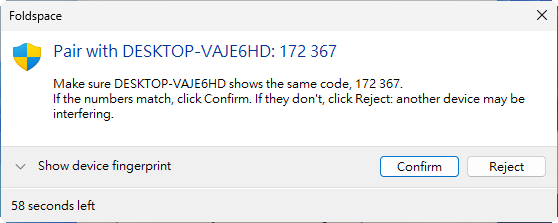
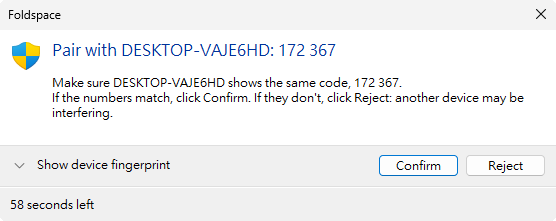
Redo the screenshot section and add Ko-fi support
- Show one screenshot at a time on a Windows 11 desktop backdrop,
  picked from tabs with a short description of each screen.
- Trim the uneven 1px border left by the screen captures.
- Add a Support link next to the GitHub icon and a support card in
  the download section. Both open Ko-fi's donation panel in a dialog
  that only loads Ko-fi when clicked; narrow screens go straight to
  the Ko-fi page.
- Move the language switch to the far right of the top bar.

diff --git a/assets/site.js b/assets/site.js
@@ -14,6 +14,7 @@
     "nav.design": "Design",
     "nav.guide": "Guide",
     "nav.download": "Download",
+    "nav.support": "Support",
     "hero.eyebrow": "File transfer for Windows on your local network",
     "hero.title": "Drop it in the folder.<br>It lands on the other PC.",
     "hero.lead": "Foldspace opens a permanent door between two Windows PCs. Pair them once, then drag a file or folder onto “Foldspace” on your desktop and it shows up, complete, in the other PC's receive folder — nobody has to click anything on the other side.",
@@ -52,11 +53,16 @@
     "screens.kicker": "Screenshots",
     "screens.title": "Just the Windows you know",
     "screens.lead": "Settings, pairing and transfers are built from standard Windows controls, so everything works the way system tools do.",
-    "shot.general": "Settings: connection status at a glance",
-    "shot.discovery": "Choose the PC to pair with",
-    "shot.code": "Compare the 6-digit pairing code",
+    "shot.general": "Settings",
+    "shot.general.d": "See at a glance whether you're connected; the everyday options are here too.",
+    "shot.discovery": "Find the other PC",
+    "shot.discovery.d": "PCs on your network running Foldspace are listed automatically. Just pick one.",
+    "shot.code": "Compare the code",
+    "shot.code.d": "Both PCs show the same 6 digits. Confirm they match and you're paired.",
     "shot.transfer": "Transfer progress",
-    "shot.toast": "Notification when files arrive",
+    "shot.transfer.d": "Shows the speed and time left, and you can cancel at any time.",
+    "shot.toast": "Notification",
+    "shot.toast.d": "When everything has arrived, a Windows notification lets you know.",
 
     "design.kicker": "Design highlights",
     "design.title": "Simple on the outside, careful on the inside",
@@ -121,6 +127,10 @@
     "dl.title": "Download Foldspace",
     "dl.meta": "Windows 10 21H2 or later / Windows 11 · x64 · single exe",
     "dl.all": "All releases and notes →",
+    "support.t": "Support Foldspace",
+    "support.d": "If Foldspace saves you time, you're welcome to buy me a coffee on Ko-fi.",
+    "support.btn": "Support on Ko-fi",
+    "support.open": "Can't see the payment form? Open it on Ko-fi ↗",
     "dl.verify.t": "Verify the download",
     "dl.verify.d": "Every release comes with a .sha256 file. Run this in PowerShell and compare the result with the value in the .sha256 file:",
     "privacy.t": "Privacy",
@@ -211,24 +221,93 @@
     if (cmd) cmd.textContent = `Get-FileHash .\\${release.name} -Algorithm SHA256`;
   }
 
-  // ---------- Screenshots: images/<shot>.<lang>.png; the section stays hidden until one loads ----------
+  // ---------- Screenshots: images/<shot>.<lang>.png, shown one at a time on the stage ----------
+  // The section stays hidden until at least one screenshot loads; tabs whose image is missing are hidden.
+  const shotUrls = {};
+  let currentShot = null;
+
+  function showShot(name, focus) {
+    const tab = document.getElementById(`tab-${name}`);
+    const img = document.querySelector(".sc-img");
+    if (!tab || !img || !shotUrls[name]) return;
+    currentShot = name;
+    $$(".sc-tab").forEach((t) => {
+      const on = t === tab;
+      t.setAttribute("aria-selected", on ? "true" : "false");
+      t.tabIndex = on ? 0 : -1;
+    });
+    const stage = document.getElementById("sc-stage");
+    stage.setAttribute("aria-labelledby", tab.id);
+    stage.dataset.shot = name;
+    img.classList.remove("in");
+    img.src = shotUrls[name];
+    img.alt = tab.querySelector(".sc-t").textContent;
+    // Restart the fade-in on every switch.
+    void img.offsetWidth;
+    img.classList.add("in");
+    if (focus) tab.focus();
+  }
+
   function loadScreenshots() {
     const section = document.getElementById("screens");
     if (!section) return;
-    $$(".shot").forEach((fig) => {
-      const img = fig.querySelector("img");
-      const name = fig.dataset.shot;
-      fig.hidden = true;
-      img.onload = () => { fig.hidden = false; section.hidden = false; };
-      img.onerror = () => {
-        // Fall back to the other language's screenshot before giving up.
-        const other = lang === "en" ? "zh-Hant" : "en";
-        if (!img.dataset.fallback) { img.dataset.fallback = "1"; img.src = `images/${name}.${other}.png`; }
+    const other = lang === "en" ? "zh-Hant" : "en";
+    const wanted = currentShot || $$(".sc-tab")[0]?.dataset.shot;
+    let wantedMissing = false;
+    currentShot = null;
+    $$(".sc-tab").forEach((tab) => {
+      const name = tab.dataset.shot;
+      tab.hidden = true;
+      delete shotUrls[name];
+      const probe = new Image();
+      probe.onload = () => {
+        shotUrls[name] = probe.src;
+        tab.hidden = false;
+        section.hidden = false;
+        // Keep the current tab (refreshed in the new language), or start on the first one.
+        if (name === wanted) showShot(name);
+        else if (wantedMissing && !currentShot) showShot(name);
       };
-      delete img.dataset.fallback;
-      img.alt = fig.querySelector("figcaption")?.textContent || "";
-      img.src = `images/${name}.${lang}.png`;
+      // Fall back to the other language's screenshot before giving up.
+      probe.onerror = () => {
+        if (!probe.dataset.fallback) { probe.dataset.fallback = "1"; probe.src = `images/${name}.${other}.png`; return; }
+        if (name !== wanted) return;
+        wantedMissing = true;
+        const loaded = $$(".sc-tab").find((t) => shotUrls[t.dataset.shot]);
+        if (loaded) showShot(loaded.dataset.shot);
+      };
+      probe.src = `images/${name}.${lang}.png`;
     });
+  }
+
+  $$(".sc-tab").forEach((tab) => tab.addEventListener("click", () => showShot(tab.dataset.shot)));
+  document.querySelector(".sc-tabs")?.addEventListener("keydown", (e) => {
+    const keys = { ArrowDown: 1, ArrowRight: 1, ArrowUp: -1, ArrowLeft: -1 };
+    if (!(e.key in keys)) return;
+    e.preventDefault();
+    const tabs = $$(".sc-tab").filter((t) => !t.hidden);
+    const i = tabs.findIndex((t) => t.dataset.shot === currentShot);
+    const next = tabs[(i + keys[e.key] + tabs.length) % tabs.length];
+    if (next) showShot(next.dataset.shot, true);
+  });
+
+  // ---------- Ko-fi: open the donation panel in a dialog; Ko-fi is only contacted after a click ----------
+  const KOFI_EMBED = "https://ko-fi.com/yueyang666/?hidefeed=true&widget=true&embed=true";
+  const kofiDialog = document.getElementById("kofi-dialog");
+  if (kofiDialog && typeof kofiDialog.showModal === "function") {
+    const frame = kofiDialog.querySelector(".kofi-frame");
+    $$(".js-kofi").forEach((a) => a.addEventListener("click", (e) => {
+      // Let modified clicks (new tab/window) behave like a normal link.
+      if (e.button !== 0 || e.metaKey || e.ctrlKey || e.shiftKey || e.altKey) return;
+      // Ko-fi's panel needs about 440px; on phones open the Ko-fi page itself.
+      if (window.innerWidth < 480) return;
+      e.preventDefault();
+      if (!frame.src) frame.src = KOFI_EMBED;
+      kofiDialog.showModal();
+    }));
+    kofiDialog.querySelector("[data-close]").addEventListener("click", () => kofiDialog.close());
+    // Clicking the backdrop closes the dialog.
+    kofiDialog.addEventListener("click", (e) => { if (e.target === kofiDialog) kofiDialog.close(); });
   }
 
   applyLanguage();

diff --git a/assets/site.css b/assets/site.css
@@ -103,6 +103,13 @@ h1, h2, h3 { font-family: var(--font-display); }
 .lang:hover { background: var(--surface-2); }
 .icon-link { color: var(--text); display: inline-flex; padding: 6px; border-radius: 3px; }
 .icon-link:hover { background: color-mix(in srgb, var(--text) 6%, transparent); }
+.support-link { display: inline-flex; align-items: center; gap: 6px; padding: 5px 10px; border: 1px solid var(--border-strong); border-radius: 3px; color: var(--text); background: var(--surface); font-size: 13.5px; font-weight: 500; text-decoration: none; }
+.support-link svg { color: #DB3A6A; }
+.support-link:hover { background: var(--surface-2); }
+.support-link:hover svg { animation: beat .8s ease-in-out; }
+@keyframes beat { 30% { transform: scale(1.25); } 60% { transform: scale(.95); } }
+@media (prefers-reduced-motion: reduce) { .support-link:hover svg { animation: none; } }
+@media (prefers-color-scheme: dark) { .support-link svg { color: #FF6B9A; } }
 @media (max-width: 760px) { .nav-links { display: none; } .nav-actions { margin-left: auto; } }
 
 /* ---------- Hero (Mica) ---------- */
@@ -201,12 +208,30 @@ h3 { margin: 0 0 8px; font-size: 18px; line-height: 1.4; font-weight: 600; }
 .step-no { display: grid; place-items: center; width: 32px; height: 32px; border-radius: 3px; background: var(--accent); color: var(--accent-text); font-weight: 700; margin-bottom: 14px; }
 
 /* ---------- Screenshots ---------- */
-.shots { display: grid; grid-template-columns: 1fr 1fr; gap: 20px; align-items: start; }
-.shot-col { display: grid; gap: 20px; min-width: 0; }
-@media (max-width: 800px) { .shots { grid-template-columns: 1fr; } }
-.shot { margin: 0; background: var(--surface); border: 1px solid var(--border); border-radius: var(--radius); padding: 16px; box-shadow: var(--shadow); }
-.shot img { display: block; margin: 0 auto 12px; border-radius: 3px; }
-.shot figcaption { text-align: center; color: var(--muted); font-size: 14.5px; }
+.showcase { display: grid; grid-template-columns: 280px 1fr; gap: 24px; align-items: stretch; }
+.sc-tabs { display: flex; flex-direction: column; gap: 4px; }
+.sc-tab { position: relative; display: block; width: 100%; text-align: left; font: inherit; color: var(--text); background: transparent; border: 1px solid transparent; border-radius: var(--radius); padding: 12px 16px 12px 20px; cursor: pointer; }
+.sc-tab:hover { background: var(--surface-2); }
+.sc-tab[aria-selected="true"] { background: var(--surface); border-color: var(--border); box-shadow: var(--shadow); }
+.sc-tab[aria-selected="true"]::before { content: ""; position: absolute; left: 7px; top: 14px; bottom: 14px; width: 3px; border-radius: 2px; background: var(--accent); }
+.sc-tab:focus-visible { outline: 2px solid var(--accent); outline-offset: 2px; }
+.sc-t { display: block; font-weight: 600; font-size: 15.5px; }
+.sc-d { display: block; margin-top: 2px; color: var(--muted); font-size: 14px; line-height: 1.5; }
+.sc-stage { display: grid; place-items: center; min-height: 600px; padding: 32px; background: var(--wallpaper); border: 1px solid var(--border); border-radius: var(--radius-lg); overflow: hidden; }
+/* Notifications appear in the bottom-right corner, as on a real desktop. */
+.sc-stage[data-shot="toast-received"] { place-items: end; }
+.sc-img { display: block; max-width: 100%; height: auto; border-radius: 7px; box-shadow: 0 0 0 1px rgba(0, 0, 0, .12), 0 2px 6px rgba(0, 0, 0, .12), 0 18px 44px rgba(0, 20, 60, .30); opacity: 0; transform: translateY(6px); }
+.sc-img.in { animation: sc-in .28s ease-out forwards; }
+@keyframes sc-in { to { opacity: 1; transform: none; } }
+@media (prefers-reduced-motion: reduce) { .sc-img.in { animation: none; opacity: 1; transform: none; } }
+@media (max-width: 860px) {
+  .showcase { grid-template-columns: 1fr; }
+  .sc-tabs { flex-direction: row; overflow-x: auto; gap: 6px; padding-bottom: 4px; scrollbar-width: none; }
+  .sc-tab { flex: 0 0 auto; width: auto; padding: 8px 14px; }
+  .sc-tab[aria-selected="true"]::before { left: 14px; right: 14px; top: auto; bottom: 4px; width: auto; height: 3px; }
+  .sc-d { display: none; }
+  .sc-stage { min-height: 0; aspect-ratio: 4 / 3.4; padding: 16px; }
+}
 
 /* ---------- Design ---------- */
 .diagram { margin: 0 0 32px; padding: 24px; background: var(--surface); border: 1px solid var(--border); border-radius: var(--radius-lg); box-shadow: var(--shadow); }
@@ -261,6 +286,13 @@ h3 { margin: 0 0 8px; font-size: 18px; line-height: 1.4; font-weight: 600; }
 .dl-body .link { display: inline-block; margin-left: 16px; color: var(--accent); font-size: 14.5px; text-decoration: none; }
 .dl-body .link:hover { text-decoration: underline; }
 @media (max-width: 560px) { .dl-body .link { display: block; margin: 14px 0 0; } }
+.support { display: flex; align-items: center; gap: 16px; margin: 0 0 16px; padding: 18px 22px; border-radius: var(--radius); border: 1px solid var(--border); background: var(--surface); }
+.support-icon { flex: none; color: var(--accent); }
+.support-body { flex: 1; min-width: 0; }
+.support h3 { margin: 0 0 2px; }
+.support p { margin: 0; color: var(--muted); }
+.support .btn { flex: none; }
+@media (max-width: 600px) { .support { flex-wrap: wrap; } .support .btn { width: 100%; justify-content: center; } }
 .verify, .privacy { margin: 0 0 16px; padding: 20px 22px; border-radius: var(--radius); border: 1px solid var(--border); background: var(--surface); }
 .verify p, .privacy p { margin: 0 0 12px; color: var(--muted); }
 .privacy p { margin: 0; }
@@ -276,3 +308,21 @@ pre { margin: 0; padding: 12px 16px; border-radius: 3px; background: #0C0C0C; co
 .footer .brand { color: var(--text); }
 
 :focus-visible { outline: 2px solid var(--accent); outline-offset: 2px; border-radius: 3px; }
+
+/* ---------- Ko-fi dialog (Win11 window) ---------- */
+.kofi-dialog { width: min(440px, 100vw - 32px); max-height: calc(100vh - 32px); padding: 0; border: 1px solid var(--border-strong); border-radius: var(--radius-lg); background: var(--surface); color: var(--text); box-shadow: 0 8px 16px rgba(0, 0, 0, .14), 0 32px 64px rgba(0, 0, 0, .28); overflow: hidden; }
+.kofi-dialog::backdrop { background: rgba(0, 0, 0, .35); }
+.kofi-dialog[open] { display: flex; flex-direction: column; animation: kofi-in .18s ease-out; }
+@keyframes kofi-in { from { opacity: 0; transform: scale(.97); } }
+@media (prefers-reduced-motion: reduce) { .kofi-dialog[open] { animation: none; } }
+.kofi-bar { display: flex; align-items: center; gap: 8px; padding: 0 0 0 14px; height: 40px; font-size: 13px; background: var(--surface-2); border-bottom: 1px solid var(--border); }
+.kofi-bar > svg { color: #DB3A6A; }
+.kofi-bar > span { flex: 1; }
+.kofi-close { align-self: stretch; width: 46px; display: grid; place-items: center; border: 0; background: transparent; color: var(--text); cursor: pointer; }
+.kofi-close:hover { background: #C42B1C; color: #fff; }
+.kofi-body { flex: 1; min-height: 0; overflow: auto; background: #F9F9F9; }
+.kofi-frame { display: block; width: 100%; height: 712px; border: 0; }
+.kofi-foot { margin: 0; padding: 10px 14px; font-size: 13px; text-align: center; border-top: 1px solid var(--border); }
+.kofi-foot a { color: var(--accent); text-decoration: none; }
+.kofi-foot a:hover { text-decoration: underline; }
+@media (prefers-color-scheme: dark) { .kofi-bar > svg { color: #FF6B9A; } }

diff --git a/index.html b/index.html
@@ -27,10 +27,14 @@
       <a href="#download" data-i18n="nav.download">下載</a>
     </nav>
     <div class="nav-actions">
-      <button class="lang" type="button" id="lang-toggle" aria-label="Switch language">EN</button>
       <a class="icon-link" href="https://github.com/yueyang666/Foldspace" aria-label="GitHub">
         <svg viewBox="0 0 16 16" width="20" height="20" aria-hidden="true"><path fill="currentColor" d="M8 0C3.58 0 0 3.58 0 8c0 3.54 2.29 6.53 5.47 7.59.4.07.55-.17.55-.38 0-.19-.01-.82-.01-1.49-2.01.37-2.53-.49-2.69-.94-.09-.23-.48-.94-.82-1.13-.28-.15-.68-.52-.01-.53.63-.01 1.08.58 1.23.82.72 1.21 1.87.87 2.33.66.07-.52.28-.87.51-1.07-1.78-.2-3.64-.89-3.64-3.95 0-.87.31-1.59.82-2.15-.08-.2-.36-1.02.08-2.12 0 0 .67-.21 2.2.82.64-.18 1.32-.27 2-.27.68 0 1.36.09 2 .27 1.53-1.04 2.2-.82 2.2-.82.44 1.1.16 1.92.08 2.12.51.56.82 1.27.82 2.15 0 3.07-1.87 3.75-3.65 3.95.29.25.54.73.54 1.48 0 1.07-.01 1.93-.01 2.2 0 .21.15.46.55.38A8.013 8.013 0 0016 8c0-4.42-3.58-8-8-8z"/></svg>
       </a>
+      <a class="support-link js-kofi" href="https://ko-fi.com/yueyang666" target="_blank" rel="noopener">
+        <svg viewBox="0 0 16 16" width="16" height="16" aria-hidden="true"><path fill="currentColor" d="M8 14.25s-5.75-3.4-5.75-7.6A3.15 3.15 0 018 4.6a3.15 3.15 0 015.75 2.05c0 4.2-5.75 7.6-5.75 7.6z"/></svg>
+        <span data-i18n="nav.support">支持</span>
+      </a>
+      <button class="lang" type="button" id="lang-toggle" aria-label="Switch language">EN</button>
     </div>
   </div>
 </header>
@@ -153,15 +157,31 @@
     <p class="kicker" data-i18n="screens.kicker">畫面</p>
     <h2 data-i18n="screens.title">就是你熟悉的 Windows</h2>
     <p class="section-lead" data-i18n="screens.lead">設定視窗、配對與傳輸畫面，都用 Windows 內建的元件，跟系統工具一樣好上手。</p>
-    <div class="shots">
-      <div class="shot-col">
-        <figure class="shot" data-shot="settings-general"><img alt=""><figcaption data-i18n="shot.general">設定視窗：連線狀態一目了然</figcaption></figure>
-        <figure class="shot" data-shot="transfer"><img alt=""><figcaption data-i18n="shot.transfer">傳輸進度</figcaption></figure>
+    <div class="showcase">
+      <div class="sc-tabs" role="tablist" aria-label="Screenshots">
+        <button class="sc-tab" type="button" role="tab" id="tab-settings-general" aria-controls="sc-stage" aria-selected="true" data-shot="settings-general">
+          <span class="sc-t" data-i18n="shot.general">設定視窗</span>
+          <span class="sc-d" data-i18n="shot.general.d">一眼看出有沒有連上對方，常用的設定也都在這裡。</span>
+        </button>
+        <button class="sc-tab" type="button" role="tab" id="tab-pair-discovery" aria-controls="sc-stage" aria-selected="false" tabindex="-1" data-shot="pair-discovery">
+          <span class="sc-t" data-i18n="shot.discovery">找到對方</span>
+          <span class="sc-d" data-i18n="shot.discovery.d">同網段開著 Foldspace 的電腦會自動列出來，選一台就好。</span>
+        </button>
+        <button class="sc-tab" type="button" role="tab" id="tab-pair-code" aria-controls="sc-stage" aria-selected="false" tabindex="-1" data-shot="pair-code">
+          <span class="sc-t" data-i18n="shot.code">比對配對碼</span>
+          <span class="sc-d" data-i18n="shot.code.d">兩邊顯示同一組 6 位數字，確認相同就配對完成。</span>
+        </button>
+        <button class="sc-tab" type="button" role="tab" id="tab-transfer" aria-controls="sc-stage" aria-selected="false" tabindex="-1" data-shot="transfer">
+          <span class="sc-t" data-i18n="shot.transfer">傳輸進度</span>
+          <span class="sc-d" data-i18n="shot.transfer.d">看得到速度和剩餘時間，隨時可以取消。</span>
+        </button>
+        <button class="sc-tab" type="button" role="tab" id="tab-toast-received" aria-controls="sc-stage" aria-selected="false" tabindex="-1" data-shot="toast-received">
+          <span class="sc-t" data-i18n="shot.toast">收到通知</span>
+          <span class="sc-d" data-i18n="shot.toast.d">檔案收齊後，Windows 通知會告訴你。</span>
+        </button>
       </div>
-      <div class="shot-col">
-        <figure class="shot" data-shot="pair-discovery"><img alt=""><figcaption data-i18n="shot.discovery">選擇要配對的電腦</figcaption></figure>
-        <figure class="shot" data-shot="pair-code"><img alt=""><figcaption data-i18n="shot.code">兩邊比對 6 位數配對碼</figcaption></figure>
-        <figure class="shot" data-shot="toast-received"><img alt=""><figcaption data-i18n="shot.toast">收到檔案的通知</figcaption></figure>
+      <div class="sc-stage" id="sc-stage" role="tabpanel" aria-labelledby="tab-settings-general">
+        <img class="sc-img" alt="">
       </div>
     </div>
   </div>
@@ -319,6 +339,15 @@
       </div>
     </div>
 
+    <div class="support">
+      <svg class="support-icon" viewBox="0 0 24 24" width="28" height="28" aria-hidden="true"><path fill="none" stroke="currentColor" stroke-width="1.6" stroke-linecap="round" stroke-linejoin="round" d="M4 9h12v5a5 5 0 01-5 5H9a5 5 0 01-5-5V9zM16 10h1.5a2.5 2.5 0 010 5H16M8 3.5c-.6.8-.6 1.7 0 2.5M12 3.5c-.6.8-.6 1.7 0 2.5"/></svg>
+      <div class="support-body">
+        <h3 data-i18n="support.t">支持 Foldspace</h3>
+        <p data-i18n="support.d">如果 Foldspace 幫你省了時間，歡迎在 Ko-fi 請我喝杯咖啡。</p>
+      </div>
+      <a class="btn btn-ghost js-kofi" href="https://ko-fi.com/yueyang666" target="_blank" rel="noopener" data-i18n="support.btn">在 Ko-fi 贊助</a>
+    </div>
+
     <div class="verify">
       <h3 data-i18n="dl.verify.t">確認檔案完整</h3>
       <p data-i18n="dl.verify.d">每個版本都附有 .sha256 檔。在 PowerShell 執行下面的指令，把結果和 .sha256 裡的值比對：</p>
@@ -333,6 +362,21 @@
 </section>
 
 </main>
+
+<!-- Ko-fi donation panel; the iframe only loads when someone opens the dialog. -->
+<dialog class="kofi-dialog" id="kofi-dialog" aria-labelledby="kofi-title">
+  <div class="kofi-bar">
+    <svg viewBox="0 0 16 16" width="16" height="16" aria-hidden="true"><path fill="currentColor" d="M8 14.25s-5.75-3.4-5.75-7.6A3.15 3.15 0 018 4.6a3.15 3.15 0 015.75 2.05c0 4.2-5.75 7.6-5.75 7.6z"/></svg>
+    <span id="kofi-title" data-i18n="support.t">支持 Foldspace</span>
+    <button class="kofi-close" type="button" aria-label="Close" data-close>
+      <svg viewBox="0 0 16 16" width="14" height="14" aria-hidden="true"><path stroke="currentColor" stroke-width="1.3" d="M3 3l10 10M13 3L3 13"/></svg>
+    </button>
+  </div>
+  <div class="kofi-body">
+    <iframe class="kofi-frame" title="Ko-fi"></iframe>
+  </div>
+  <p class="kofi-foot"><a href="https://ko-fi.com/yueyang666" target="_blank" rel="noopener" data-i18n="support.open">看不到付款畫面？在 Ko-fi 網站開啟 ↗</a></p>
+</dialog>
 
 <footer class="footer">
   <div class="wrap footer-inner">
